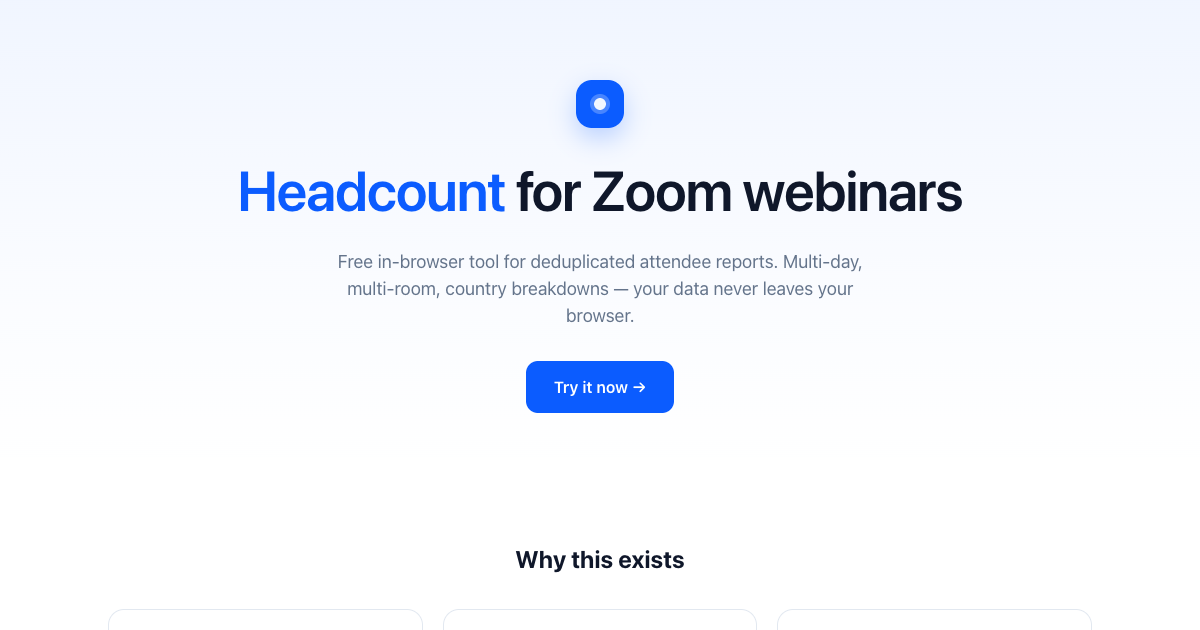
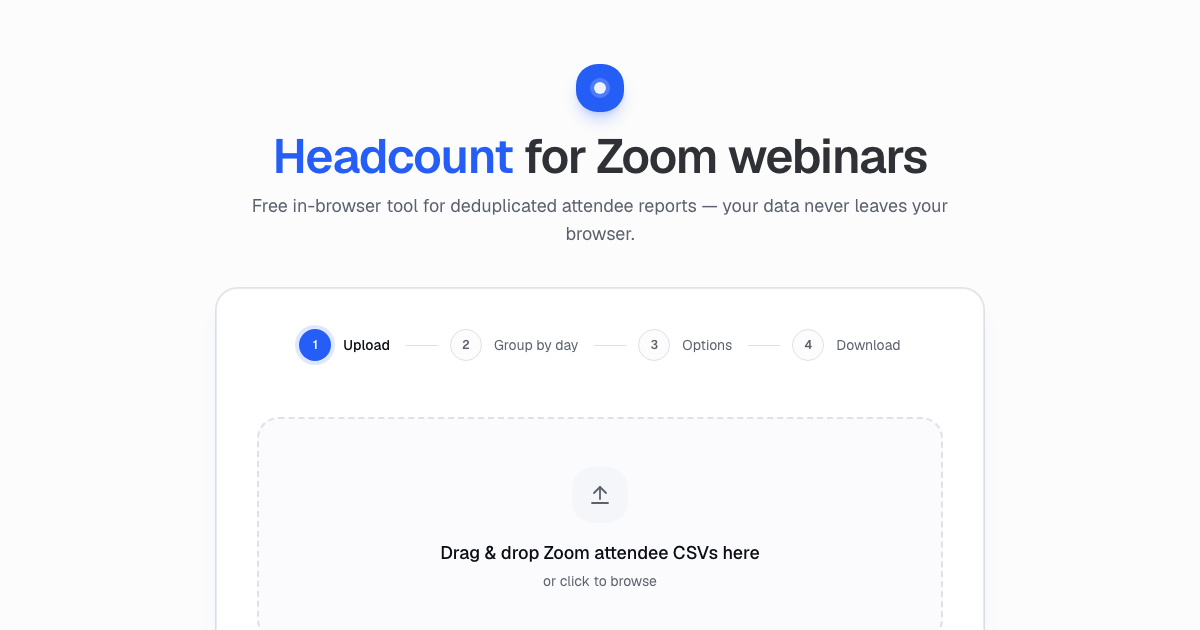
docs(site): add dashboard and XLSX screenshots and a new og-image

diff --git a/README.md b/README.md
@@ -9,7 +9,7 @@ and engagement insights.
 **Your data never leaves your browser.** No upload, no database, no logging.
 The optional share link contains only aggregated stats — no emails or names.
 
-➡ **Live**: https://jerefrer.github.io/headcount/
+➡ **Live**: https://jerefrer.github.io/headcount/ (the tool is the home page; try the built-in sample data to see a report instantly)
 
 ## Features
 
@@ -20,6 +20,9 @@ The optional share link contains only aggregated stats — no emails or names.
 - Rich in-app dashboard: KPI cards, country breakdown, per-day chart,
   engagement histogram, retention curve, peak concurrent viewers
 - Shareable URL with aggregated stats only (RGPD-clean)
+- One-click sample data (synthetic CSVs in `public/sample/`)
+
+The legacy `/app/` URL redirects to the root, preserving the `#report=` share hash.
 
 ## Development
 
